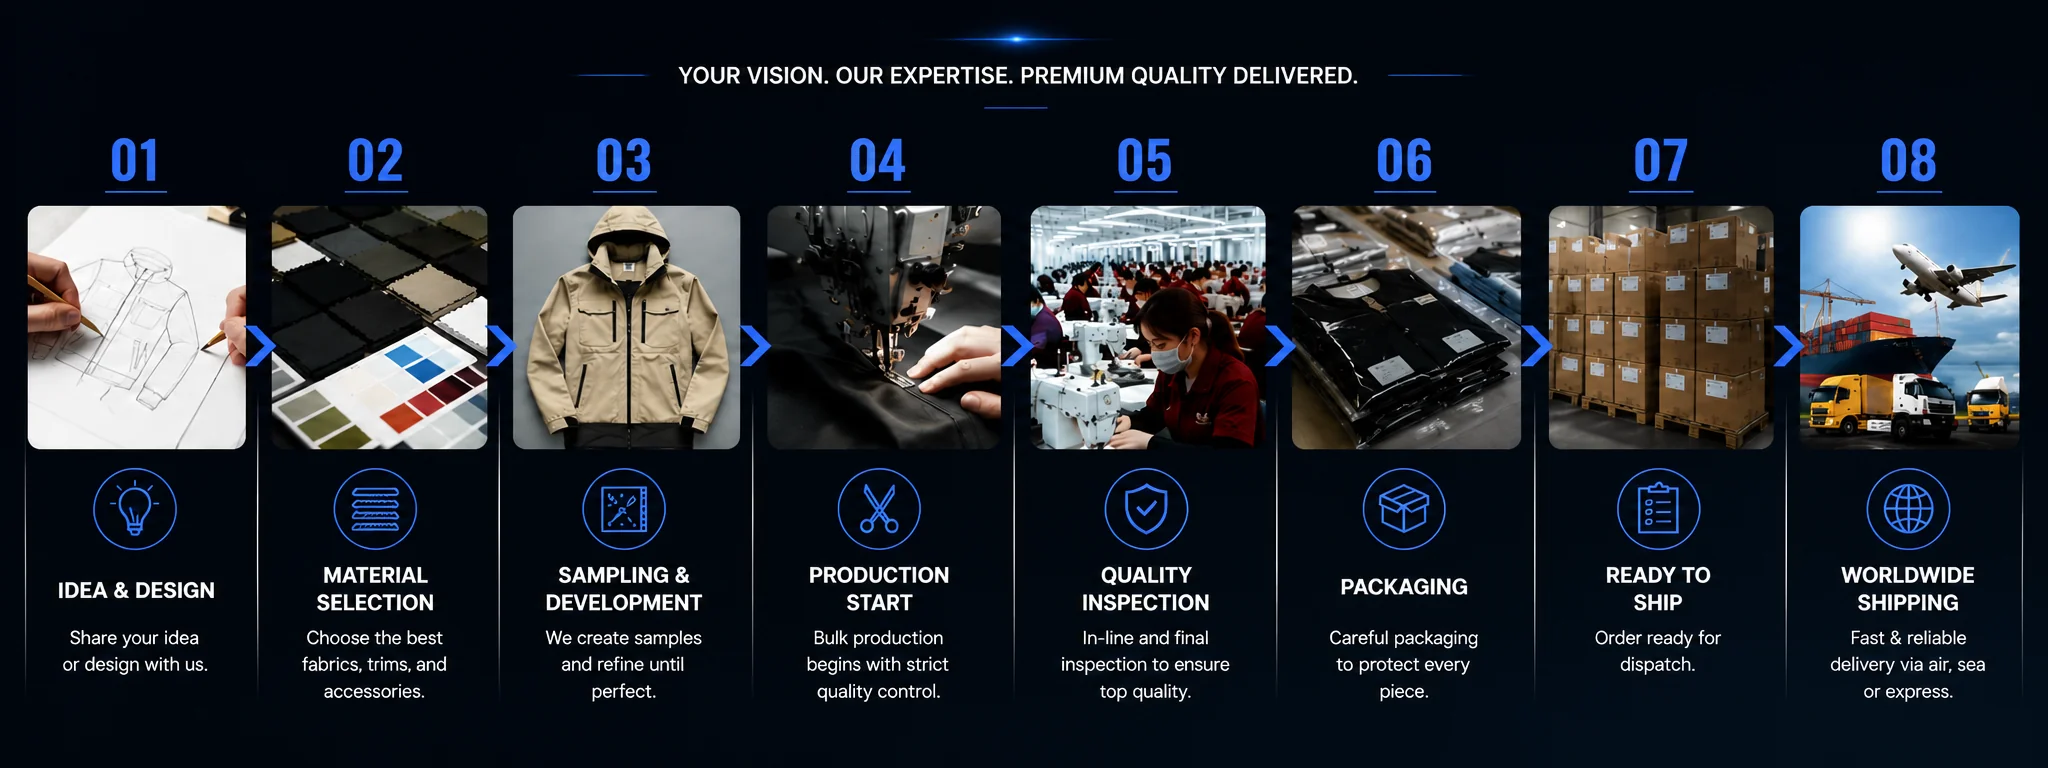
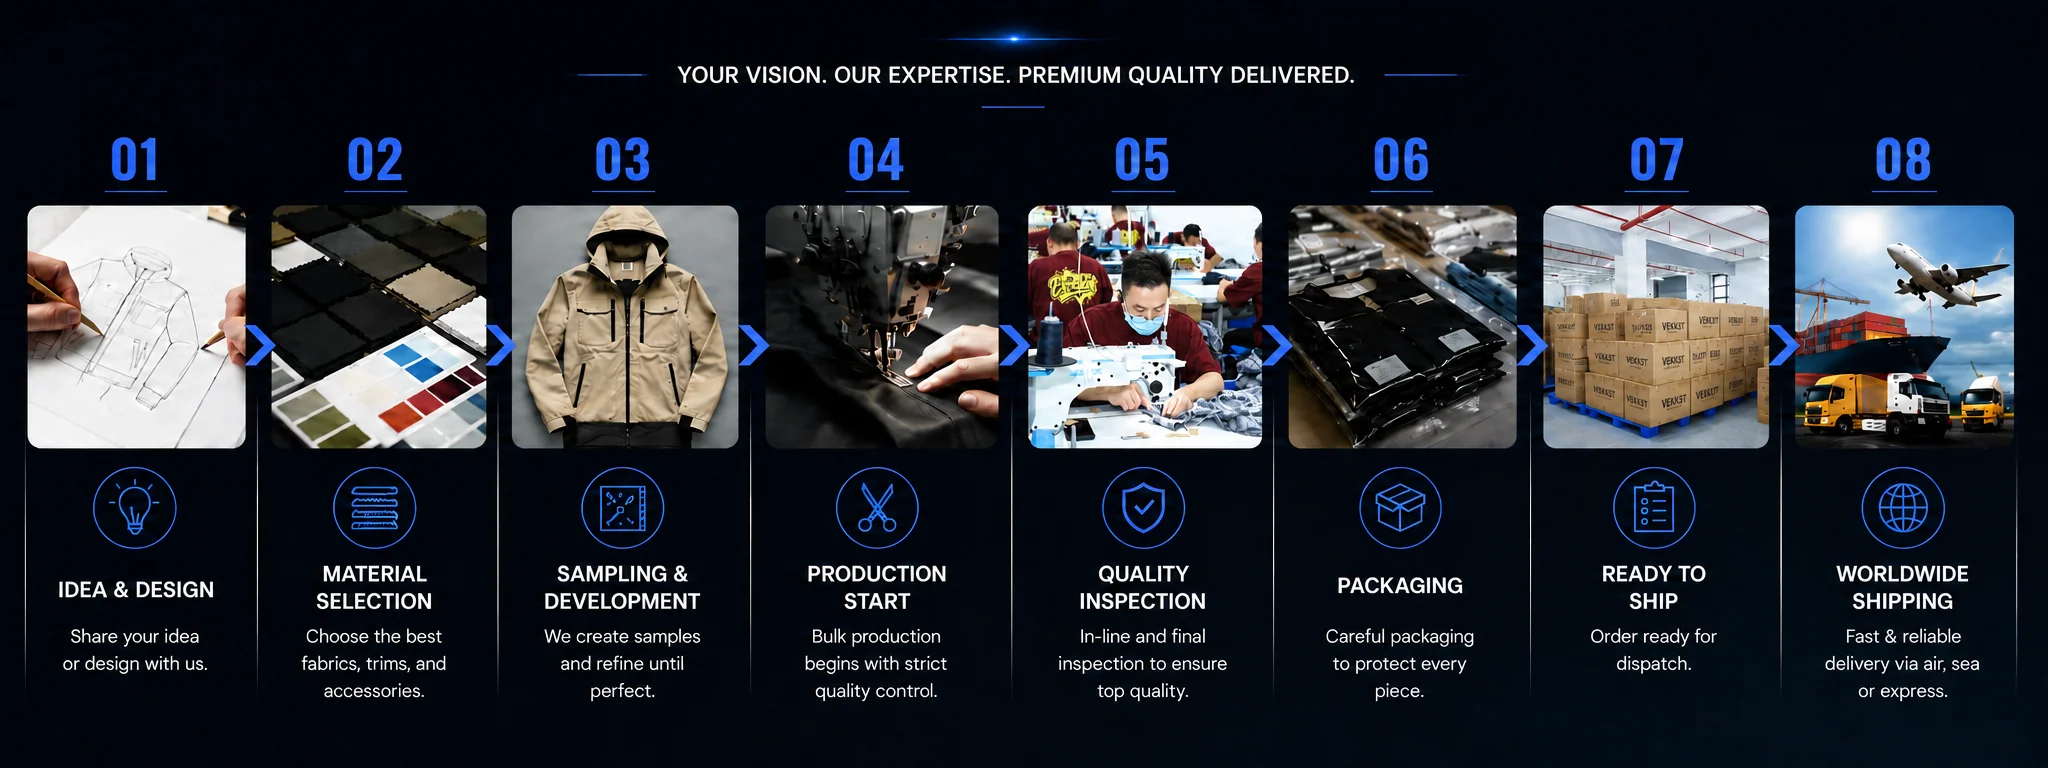
feat: replace homepage images with new versions
- From Idea to Bulk: new 8-step process infographic
  1.63MB PNG → 0.15MB WebP (90.7% smaller)
- Factory Strength: new 5-section factory collage
  1.57MB PNG → 0.19MB WebP (87.9% smaller)
- Updated Home.tsx reference for factory-strength.webp

diff --git a/source/src/pages/Home.tsx b/source/src/pages/Home.tsx
@@ -166,7 +166,7 @@ export default function Home() {
         </div>
         <div className="full-bleed">
           <img
-            src={cms("factory-strength", "/images/Factory Strength.webp")}
+            src={cms("factory-strength", "/images/factory-strength.webp")}
             alt={t("factoryStrength", lang)}
             className="w-full h-auto md:h-[720px] object-cover"
             decoding="async"